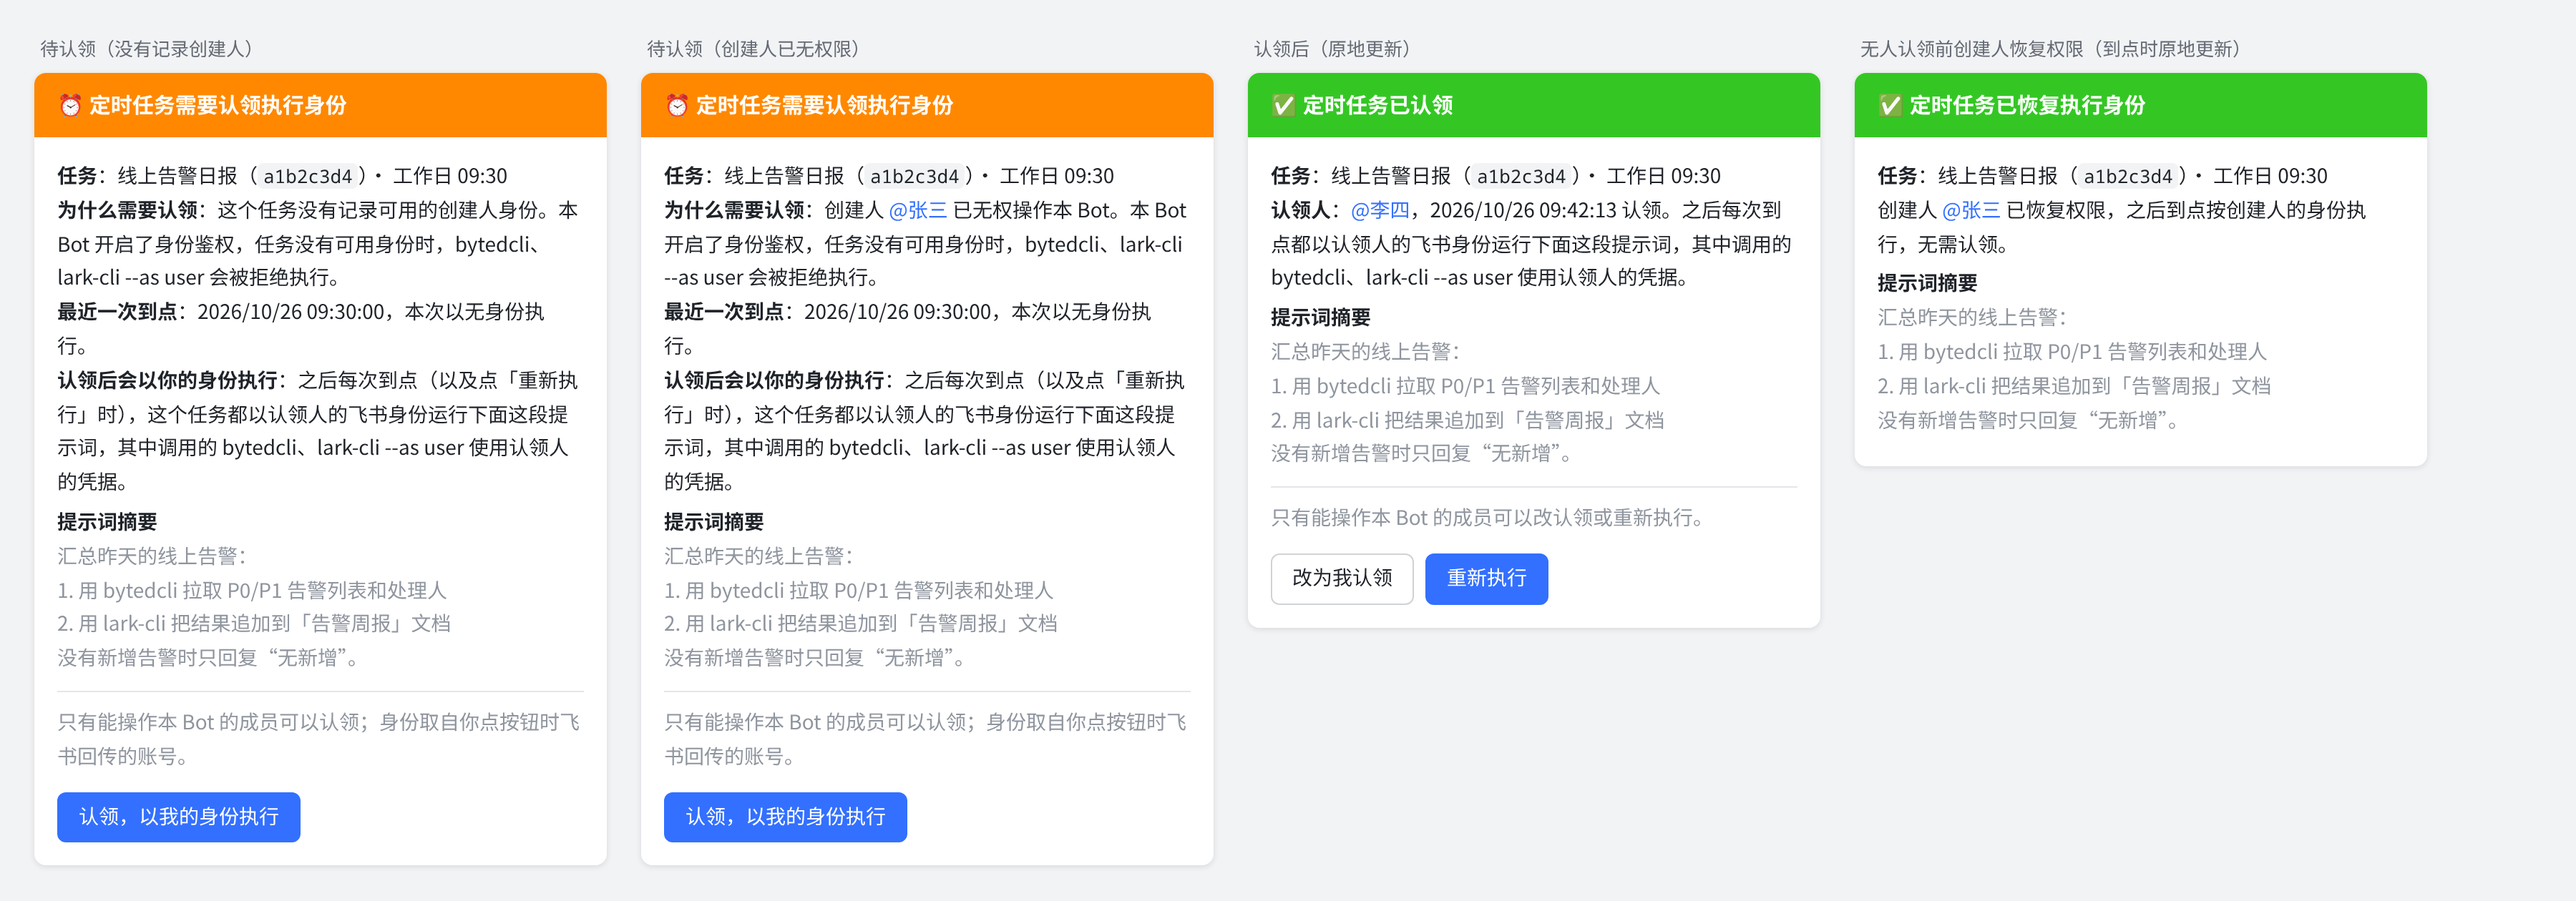
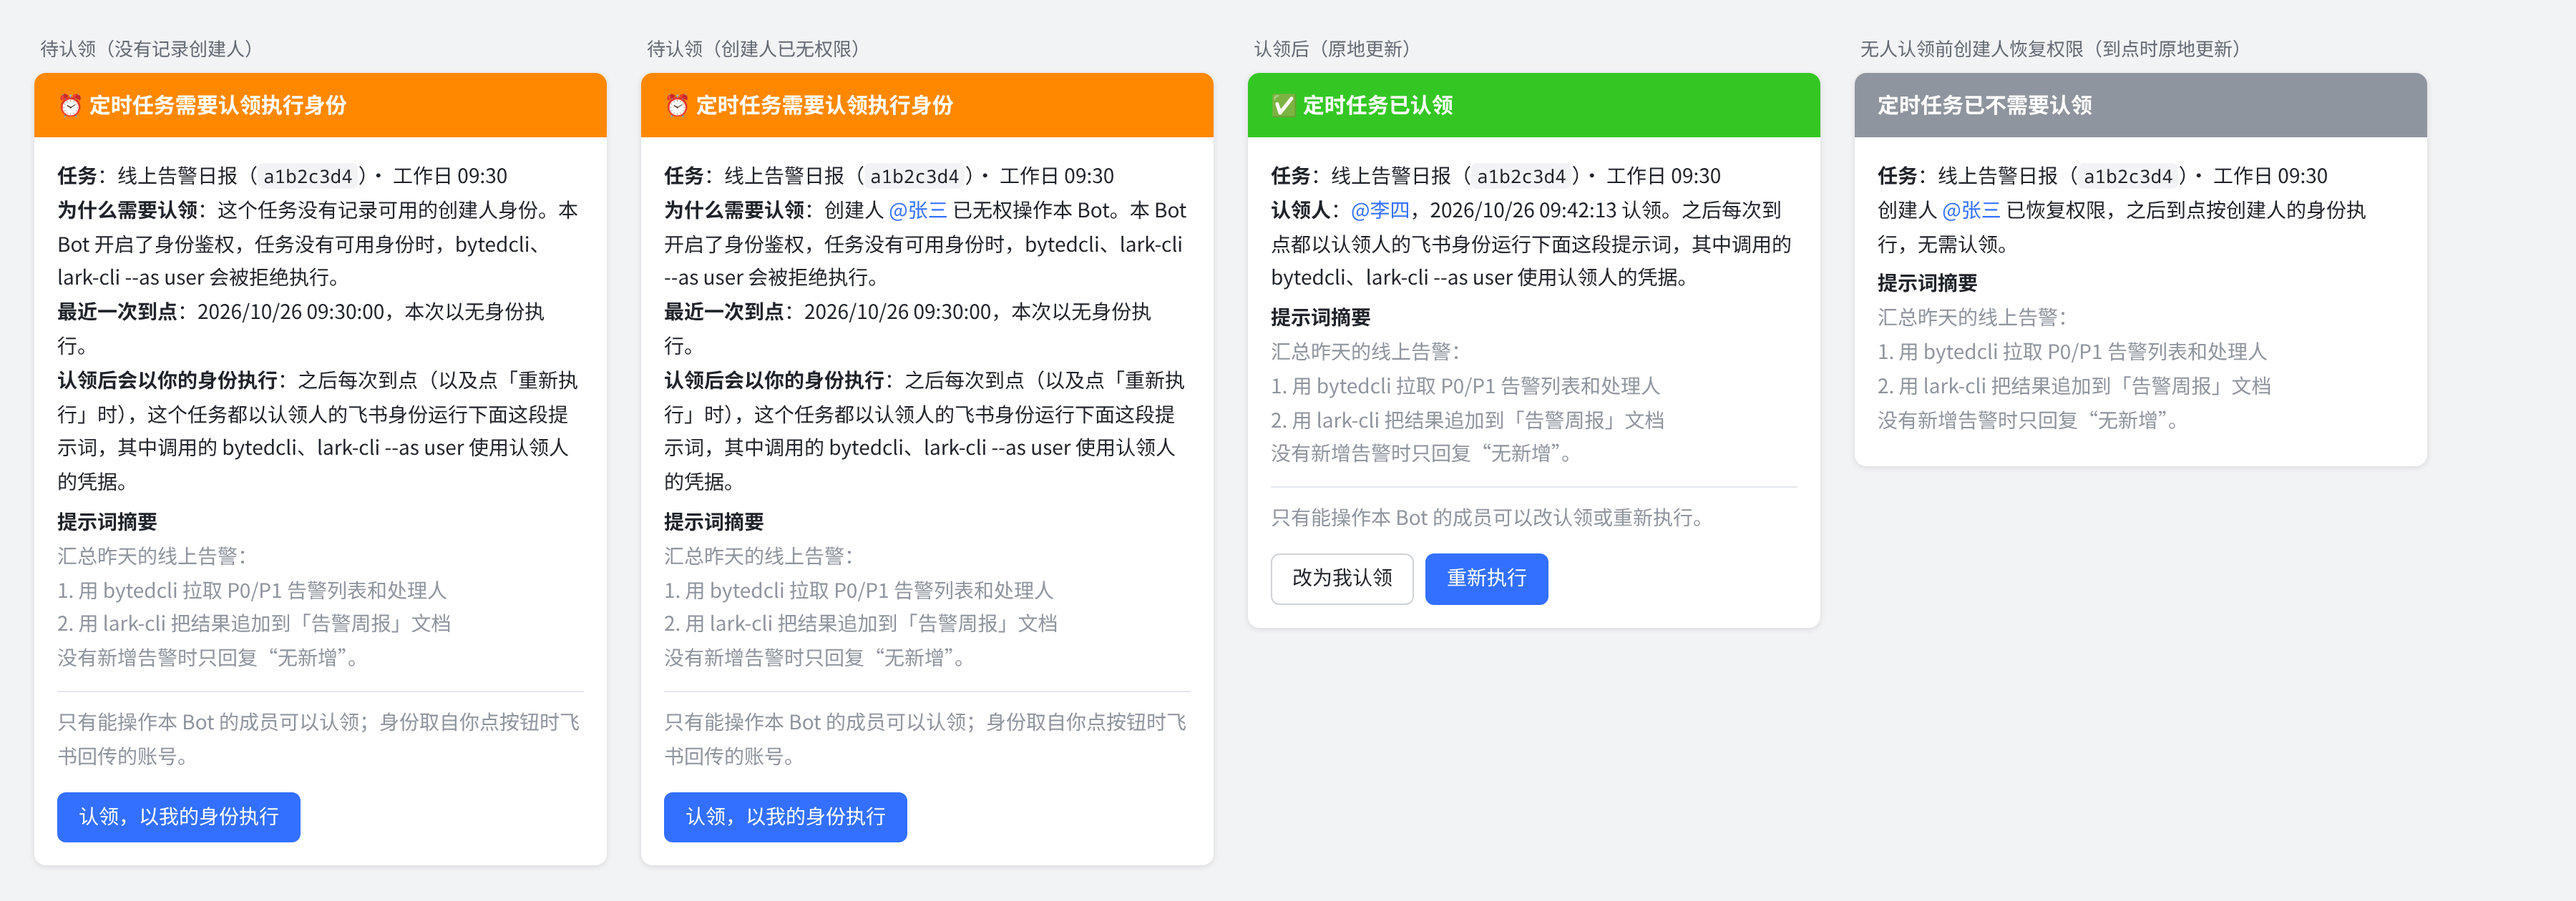
fix(schedule): 「已不需要认领」卡改灰态，文档补卡片位置不随话题化迁移

Changed region(s): [[0.7156, 0.0619, 0.9644, 0.1548]]

diff --git a/src/i18n/en.ts b/src/i18n/en.ts
@@ -2047,7 +2047,7 @@ export const messages: Record<string, string> = {
   'scheduler.claim.toast_gone': 'The task was removed',
   'scheduler.claim.toast_unsupported': 'This task cannot be claimed',
   'scheduler.claim.toast_failed': 'Failed: {reason}',
-  'scheduler.claim.title_resolved': '✅ Scheduled task has a usable identity again',
+  'scheduler.claim.title_resolved': 'Scheduled task no longer needs a claim',
   'scheduler.claim.resolved_body': 'Its creator {who} can operate this bot again; later runs use the creator’s identity, so no claim is needed.',
   'scheduler.claim.toast_not_needed': 'This task has a usable identity now, so no claim is needed; the card was refreshed',
   'scheduler.claim.toast_rerun_no_identity': 'The claimant can no longer operate this bot, so the task has no usable identity; claim it first',

diff --git a/src/i18n/zh.ts b/src/i18n/zh.ts
@@ -2048,7 +2048,7 @@ export const messages: Record<string, string> = {
   'scheduler.claim.toast_gone': '任务已被删除',
   'scheduler.claim.toast_unsupported': '这个任务不支持认领',
   'scheduler.claim.toast_failed': '操作失败：{reason}',
-  'scheduler.claim.title_resolved': '✅ 定时任务已恢复执行身份',
+  'scheduler.claim.title_resolved': '定时任务已不需要认领',
   'scheduler.claim.resolved_body': '创建人 {who} 已恢复权限，之后到点按创建人的身份执行，无需认领。',
   'scheduler.claim.toast_not_needed': '这个任务现在已有可用身份，无需认领；卡片已刷新',
   'scheduler.claim.toast_rerun_no_identity': '认领人已无权操作本 Bot，任务现在没有可用身份；请先重新认领',

diff --git a/src/im/lark/schedule-identity-claim-card.ts b/src/im/lark/schedule-identity-claim-card.ts
@@ -155,7 +155,7 @@ export function buildScheduleIdentityClaimCard(input: ScheduleClaimCardInput): R
     ]);
   }
   if (input.state === 'resolved') {
-    return card(t('scheduler.claim.title_resolved', undefined, loc), 'green', [
+    return card(t('scheduler.claim.title_resolved', undefined, loc), 'grey', [
       {
         tag: 'markdown',
         content: [
